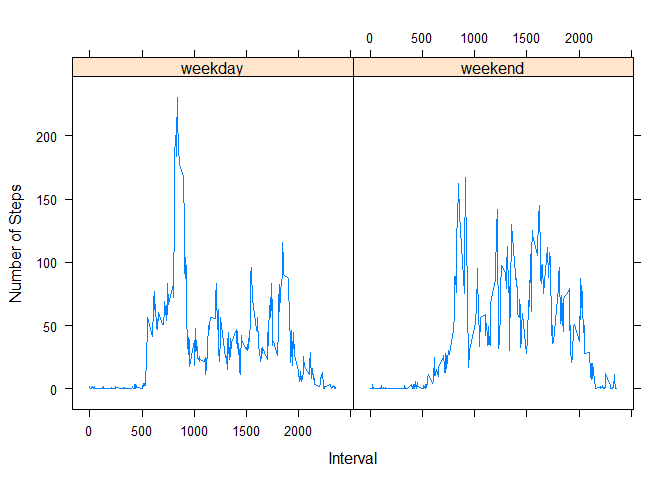
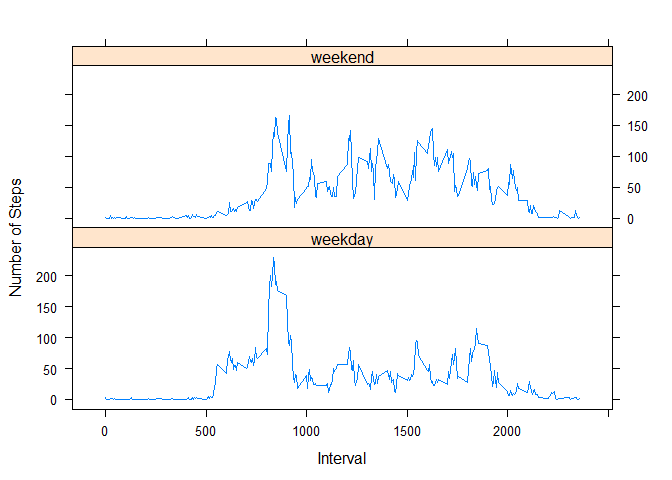
Updated last graph (panel)

diff --git a/PA1_template.html b/PA1_template.html
@@ -206,9 +206,10 @@ weekday&lt;-computed_data[computed_data$wkday_wkend==&quot;weekday&quot;,]</code
 <pre class="r"><code>library(lattice)
 xyplot(avg_steps ~ int | factor(wkday_wkend), data=final_pattern, 
        type = 'l',
+     layout=c(1,2),
        xlab=&quot;Interval&quot;,
        ylab=&quot;Number of Steps&quot;)</code></pre>
[2 lines of base64/hex data omitted]
 </div>
 
 

diff --git a/PA1_template.md b/PA1_template.md
@@ -220,6 +220,7 @@ weekday<-computed_data[computed_data$wkday_wkend=="weekday",]
 library(lattice)
 xyplot(avg_steps ~ int | factor(wkday_wkend), data=final_pattern, 
        type = 'l',
+	 layout=c(1,2),
        xlab="Interval",
        ylab="Number of Steps")
 ```
